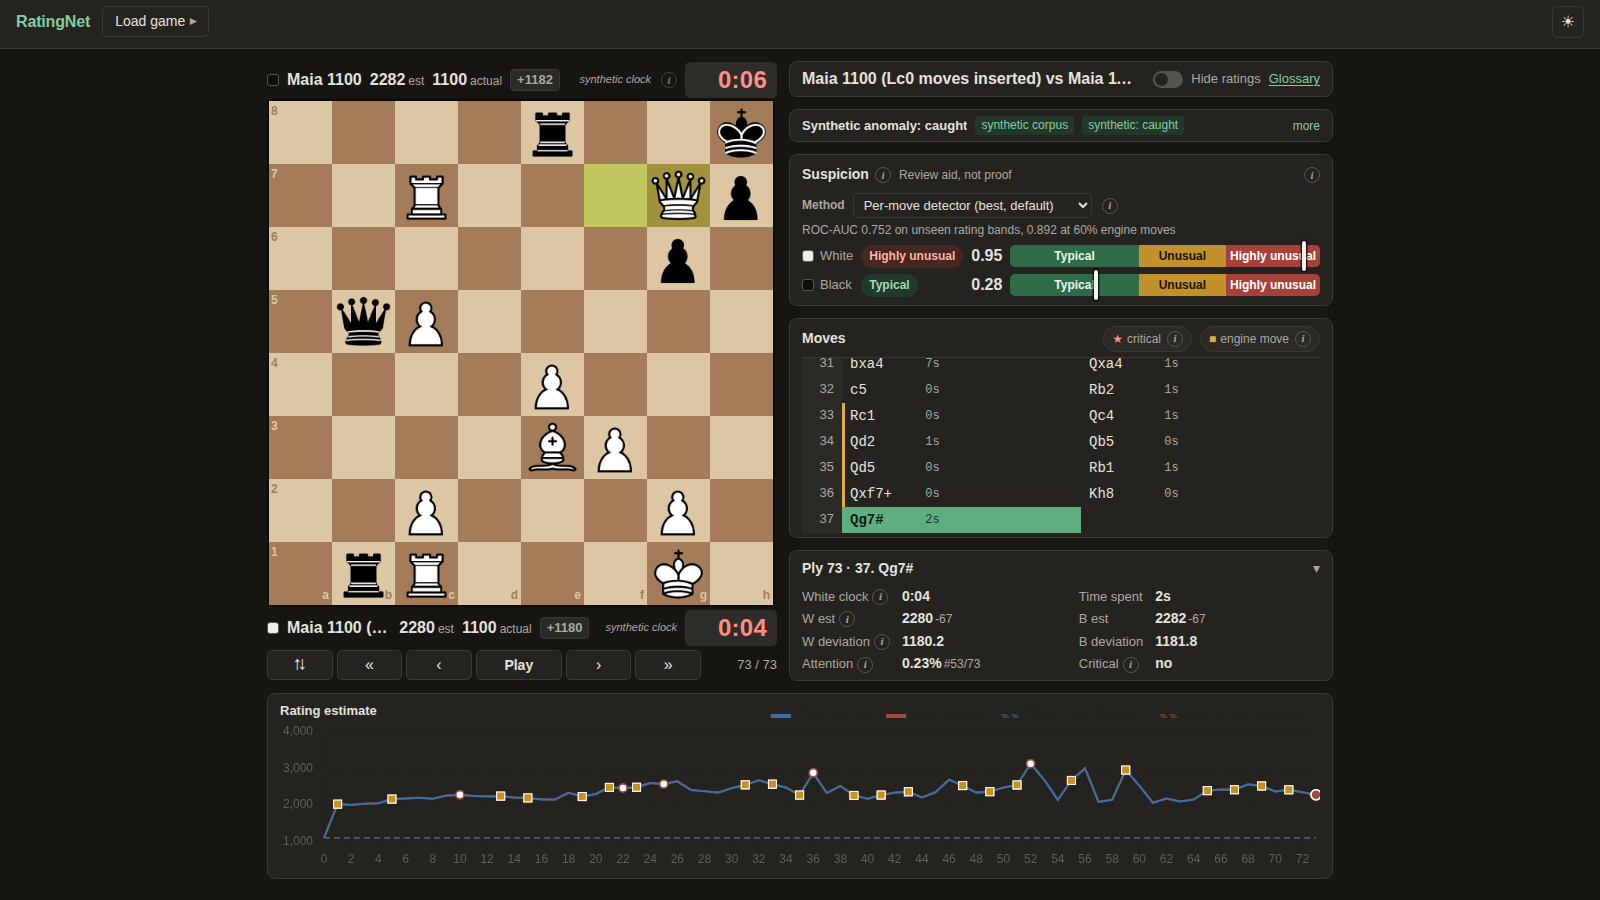
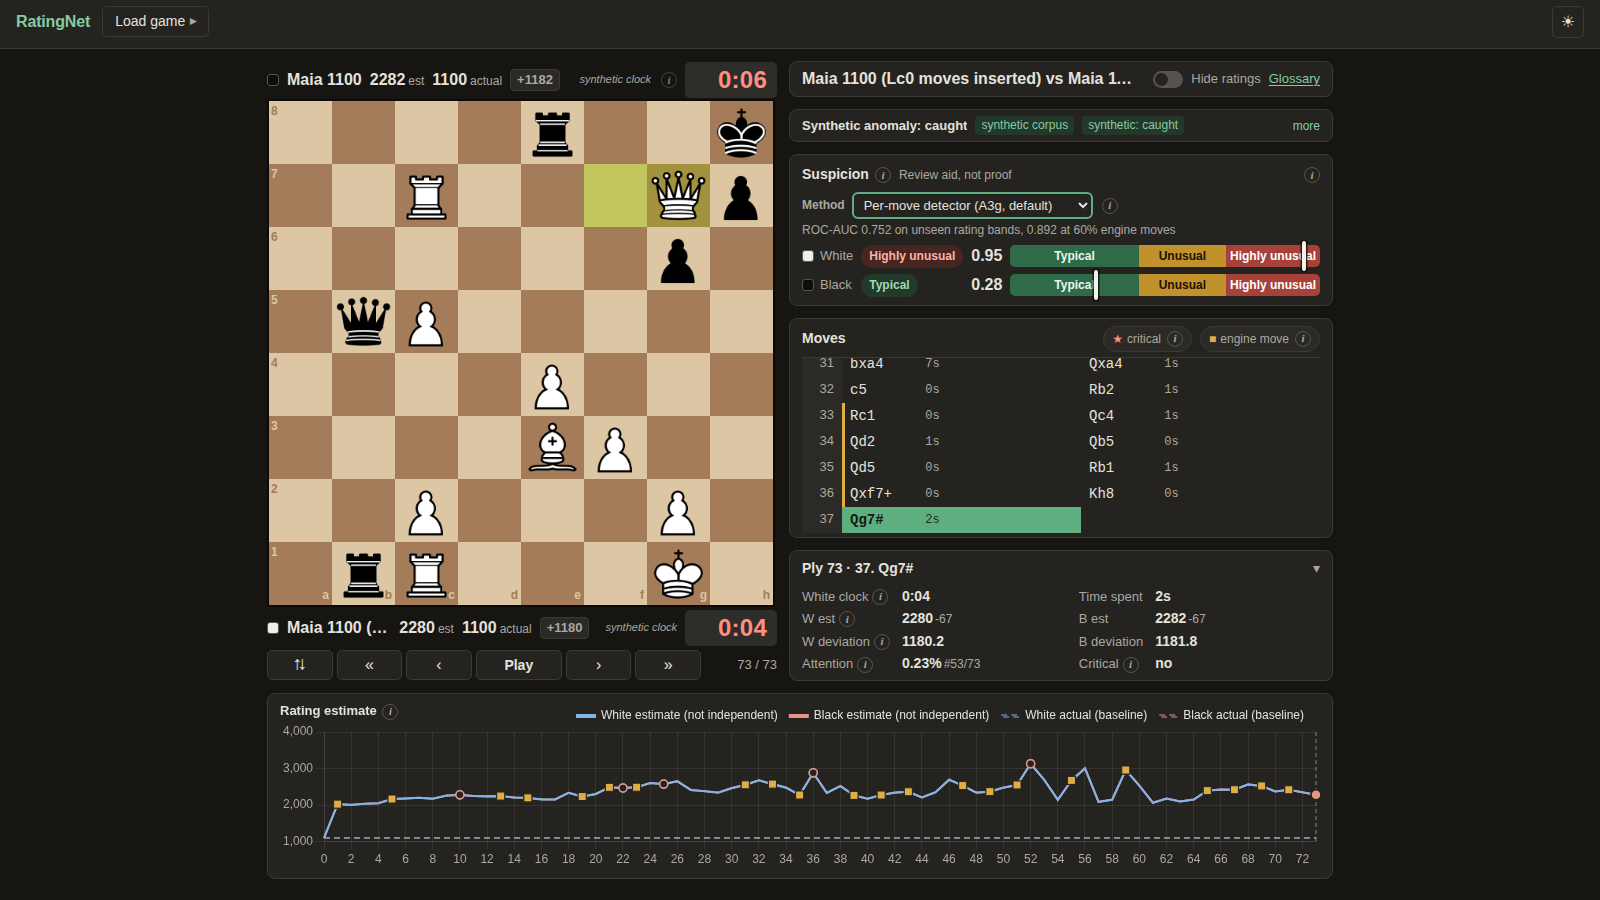
Retake README screenshots and demo GIF for the current UI
The method selector no longer says "best", the rating chart carries
the "(not independent)" legend and info tooltip, and the tab bar now
includes Play mode. Adds a Play mode screenshot to the README.

diff --git a/README.md b/README.md
@@ -96,6 +96,8 @@ The same view in dark theme, and the sample-game picker:
   only) and get the rating estimate and suspicion score after every move; see
   [docs/web-prototype.md](docs/web-prototype.md#play-mode).
 
+  ![Play mode, mid-game](docs/screenshots/play-mode.png)
+
 ## Quick start (web prototype, local machine)
 
 PyTorch needs Python 3.12 or 3.13. A venv outside the repo keeps its
